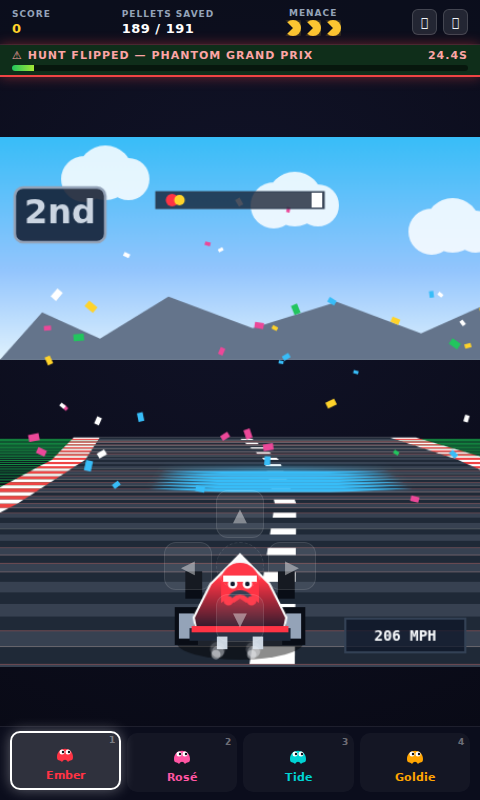
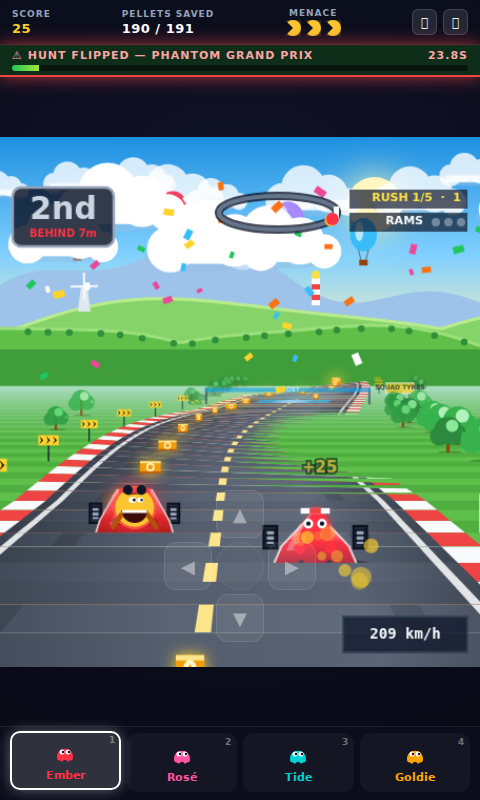
Round 6 (3/3): retime the Grand Prix capture, README, refreshed 21/21 screenshots

diff --git a/test/acceptance.js b/test/acceptance.js
@@ -661,11 +661,11 @@ async function runAcceptanceTests() {
     const musicDuringGP = await page.evaluate(() => window.__RM_GAME__.getMusicState());
     if (musicDuringGP !== 'grandprix') throw new Error(`Music should read "grandprix" during the Grand Prix segment, got "${musicDuringGP}"`);
 
-    // Let the race run: steer, wait for mid-race frame with both karts
+    // Let the race run: a short steer off the grid, then a mid-race frame with both karts in shot
     await page.evaluate(() => window.__RM_GAME__.flipSteer(1));
-    await page.waitForTimeout(500);
+    await page.waitForTimeout(300);
     await page.evaluate(() => window.__RM_GAME__.flipSteerRelease(1));
-    await page.waitForTimeout(1100);
+    await page.waitForTimeout(1500);
 
     const gpRun = await page.evaluate(() => window.__RM_GAME__.getFlip());
     if (gpRun.phase !== 'run' || gpRun.progress <= 0) throw new Error(`Grand Prix run did not advance (phase ${gpRun.phase}, progress ${gpRun.progress})`);

diff --git a/README.md b/README.md
@@ -56,10 +56,10 @@ The flip set is **four** mini-games, one per power pellet, each an instantly rec
 
 | Pellet | Flip | Genre | Status |
 | --- | --- | --- | --- |
-| top-left (1,1) | **Green Valley** | rolling-hills chase | built (Round 2, Gauntlet fixes Round 4) |
-| top-right (17,1) | **Block Kingdom** | bright platformer | built (Round 3, Gauntlet fixes Round 4) |
+| top-left (1,1) | **Green Valley** | rolling-hills chase | built (Round 2, Gauntlet fixes Round 4, full fix round 6) |
+| top-right (17,1) | **Block Kingdom** | bright platformer | built (Round 3, Gauntlet fixes Round 4, full fix round 6) |
 | bottom-left (1,19) | **GLOOM** | first-person corridor | built (Round 4, renderer rebuilt Round 5) |
-| bottom-right (17,19) | **Phantom Grand Prix** | kart racer | built (Round 4) |
+| bottom-right (17,19) | **Phantom Grand Prix** | kart racer | built (Round 4, rebuilt as a two-kart race Round 6) |
 
 Every flip is a named module behind one contract (enter with the possessed ghost; exit `survived` → back unbenched with +200, or `caught` → the normal bench flow). Maze time freezes during any flip.
 
@@ -98,6 +98,30 @@ Operator inspection of the Round 4 delivery found GLOOM's game state correct but
 - The only opaque full-playfield fill is the dark base tone `#06080d`. Every overlay (lights, haze, muzzle flash, low-NERVE red pulse) is translucent; the red pulse stays an edge vignette.
 - The blaster and the status bar are byte-for-byte the Round 4 code.
 - The renderer reports where it drew the Menace (`getFlip().extra.menaceScreen`) so the battery can check the figure, not just the state.
+
+## Round 6 — Full Gauntlet fix rounds: Phantom Grand Prix, Green Valley, Block Kingdom
+
+Marlando's ruling ("full fix rounds for all three flips, whatever it takes") replaced the one-bounded-fix economy for these three. The Gauntlet judges score from captured frames, so every change here is one a single mid-action still can show: both characters in shot, motion cues visible, a dense world. GLOOM, the maze, the soundtrack and the flip contract are untouched; all 21 checks keep passing.
+
+### Phantom Grand Prix (Round 2 median 14 — wit 2, AAA feel 2, game feel 2)
+Rebuilt as a real two-kart race seen from a chase camera that sits behind the ghost's kart, so a rival up to ~110 units behind her still projects inside the frame (bigger and lower — looming) while a rival ahead shrinks up the road.
+- **The race in the frame.** The Menace lines up **beside** the ghost on the grid under the start arch and his monster kart stays in shot for the whole lap: a rubber band holds him between 110 units behind and 600 ahead, the band snaps him back the moment the renderer reports his kart outside the frame (round a bend, past an edge), the camera slides to the midpoint of the two karts when they run level, and a rear-view mirror shows his grin when he is on her tail. Both karts are drawn properly from behind: fat slick tyres with rims and tread, turning front wheels, a shaded body shell with a highlight, numbered tail plate, spoiler with end plates, twin exhausts, a visible driver (the ghost in a helmet band with hands on the wheel; the Menace in pushed-up goggles grinning back over his shoulder), steering lean, bank roll, exhaust puffs, drift smoke and sparks off the rear tyres.
+- **The track world.** A curving circuit — sweeping bend, boost straight, banked hairpin, hill crest and dip, S-chicane, second boost straight, final curve — with real quadratic bends, banking that tilts the road slice and rolls the karts, a road shaded across its width and textured by alternating slices, tyre marks, edge lines and a dashed centre line, red/white curbs, grandstands with a three-row crowd bobbing in squad colours under striped roofs and pennant lines, waving flags, billboards (`PHANTOM GP`, `PELLET CO.`, `SQUAD TYRES`, `GHOST FUEL`), gantries (`BOOST`, `HALFWAY`), chevron boards on the outside of bends, round trees and flowering bushes, distance haze, and a sky of two cloud layers, hot-air balloons, snow-capped mountains, sun-lit layered hills with a lighthouse and a turning windmill.
+- **Signature props and feedback.** Floating pellet cubes on the racing line (+25, `+25` pop, sparkle burst; five in a row is a **PELLET RUSH** surge that spins the Menace out — and the glutton eats any cube on his own line), boost pads that fire an FOV kick (the camera's focal length drops), white flash and radial speed lines, pellet bombs the Menace visibly cocks and throws (arm animation) that arc over the road and burst into a splat of pellet shards you must steer around, `OVERTAKE!` / `HE PASSES YOU!` flashes on every lead change, `CLOSE!` near-miss flashes, `RAMMED! n/3` with a swerve-away, a live position plaque with the gap in metres, a loop-shaped lap tracker carrying both karts, and confetti cannons on the finish arch that fire as the karts arrive.
+- **The finish is a race to the line.** Whoever crosses the arch first takes it; a short finish phase coasts both karts through the confetti before the result stands (`1ST — CHECKERED FLAG!` or `HE TAKES THE FLAG!`). Hands-off he wins; steer the bends, take the boost pads and the cubes, avoid the bombs and you take the flag.
+
+### Green Valley (Round 2 median 17 — game feel 2)
+- **Motion made visible.** A run cycle (bob, forward lean, alternating stride squash-and-stretch), rising stretch / landing squash, tan dust puffs kicked up by every stride and every landing (both characters), four-point-star sparkle bursts and `+25` pops on pickup, speed lines streaking behind her at full pace and filling the screen on a surge, fading afterimages behind both runners, a motion-blur tail on the rolling Menace, and a near-catch vignette that throbs as he closes.
+- **Density toward the reference.** A thick saturated grass cap with a lighter lip, a topsoil band over the checkered earth, a deeper textured sea with three rows of moving wave stripes and animated glints, sunflowers that sway, carved wooden marker posts with cut faces and star caps, bushes along the run and on the mid hills, more trees, birds, high wisps and big clouds, a more saturated palette, and soft shadows under both characters (the ghost's shrinks as she jumps) and every prop.
+- **Signature terrain, playable.** Two real slope sections (a long climb-and-drop and a short ramp): the grade changes speed for real — climbs slow her, drops speed her up, and the rolling ball gains more downhill. The loop silhouettes stay as backdrop dressing. Both characters are scaled up (ghost 1.8×, Menace radius 22) and the camera keeps the Menace whole in frame at the left (never cropped) while he visibly gains; the maximum gap is 280 px.
+
+### Block Kingdom (Round 2 median 17 — AAA feel 2)
+- **True parallax depth.** Three cloud layers (high far clouds, low wisps above the hill line, near puffy clouds) filling the sky, taller distant pale spotted hills with more spots and a sun-lit rim, the mid-ground hill band with highlights, mid bushes, foreground bushes and stemmed flowers hugging the terrain line, grass tufts, a shaded dirt stratum with tile seams, speckles and strata lines that follow the slope, pit shading, and soft drop shadows under the ghost, the Menace, minions, blocks and chimneys.
+- **Juice made visible.** Tan running dust and landing dust for both runners, a run cycle with stride squash-and-stretch and afterimages at pace, landing squash, four-point-star sparkle bursts with `+25` pops on pickup, the star-block bounce, speed lines and a subtle shake as the Menace closes, and a throbbing red vignette when he is right behind her.
+- **Staging and scale.** The ghost at 1.7× and the Menace drawn at radius 20, the camera keeping him whole in frame at the left (maximum gap 240 px), taller chimneys (up to four tiles), larger block clusters at varied heights (up to seven tiles up), a **sloped terrain section** (tiles 61–75: a climb, a plateau carrying a chimney, a drop — the ground-height function runs through the physics, so landings, running, the Menace's hops and the sprout patrols all follow it), the banner pole standing in-world at the goal, and the in-art gag twice over: the Menace waves his tiny captured squad flag as he runs and stomps any sprout minion in his way flat, leaving the flattened disc behind him.
+
+### Battery
+`test/acceptance.js` changed in screenshot timing only: the Grand Prix capture (check 18) now steers for 0.3 s and waits 1.5 s so the frame is a mid-race moment with both karts whole in shot. The `npm test` command is byte-identical. The Grand Prix module reports both kart rects and `bothInFrame` through `getFlip().extra`; Block Kingdom reports the ghost/Menace positions and `bothInFrame` too.
 
 ## The Soundtrack (Rounds 2–4)
 
@@ -179,7 +203,7 @@ The test suite automatically validates:
 20. GLOOM render sanity (the battery gets eyes): enters GLOOM through the bottom-left pellet, strafes and fires, and at ~4s of live corridor play reads the canvas pixels of the playfield (the view above GLOOM's status bar) in-page: at least 40 distinct colours (quantised to 32 levels per channel), no single colour over 55% of the region, the Menace's body yellow measurably present in the central corridor area (≥ 80 px) but never over 45% of it, the renderer's reported Menace rect inside the central area with body yellow, eye white and grin dark all present inside it (a figure, not a disc). A second sample ~5s later must pass the same thresholds with a strictly larger figure, and that frame is kept as `screenshots/gloom.png`. On the Round 4 build this check fails: the Menace was a frame-filling disc (yellow far over 45% of the central area) and the renderer reported no figure.
 21. Render sanity for the other three flips: the same distinct-colour and dominance thresholds applied to a ~4s mid-play frame of Green Valley, Block Kingdom and Phantom Grand Prix; zero console errors across all 21 checks.
 
-Screenshots of title, gameplay, the flip transition, Green Valley, Block Kingdom (banner and mid-level), GLOOM mid-corridor, Phantom Grand Prix mid-race, maze clear, and game over screens are saved into `screenshots/`.
+Screenshots of title, gameplay, the flip transition, Green Valley, Block Kingdom (banner and mid-level), GLOOM mid-corridor, Phantom Grand Prix mid-race, maze clear, and game over screens are saved into `screenshots/`. Since Round 6 the three fixed flips' frames (`valley.png`, `kingdom.png`, `grandprix.png`) are peak-action captures with both the ghost and the Menace in shot.
 
 ---
 
